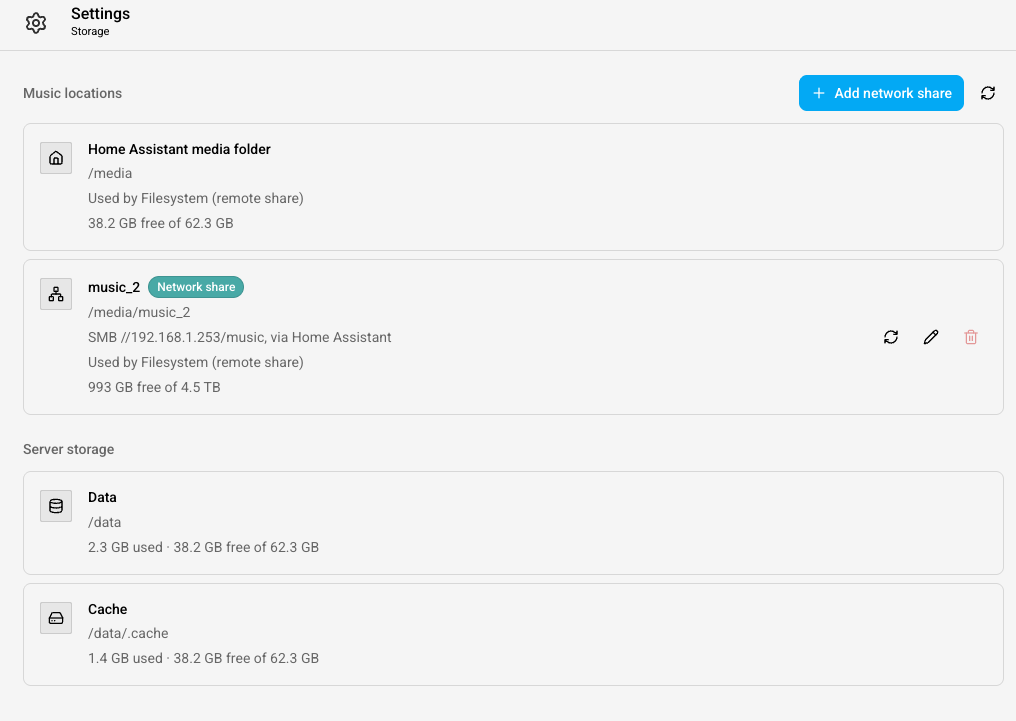
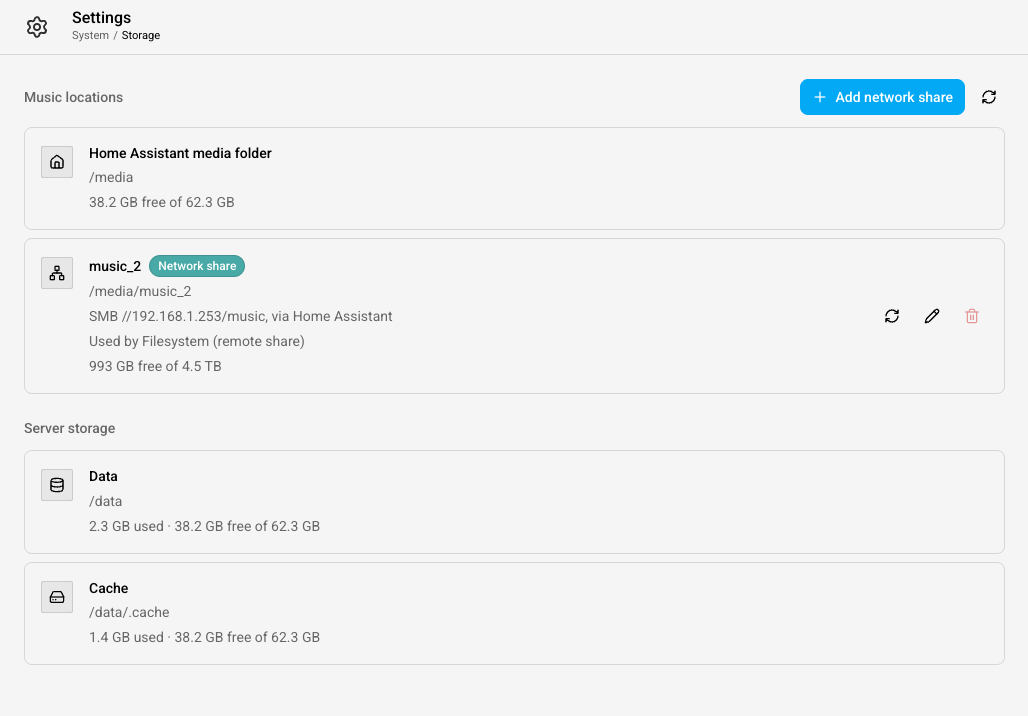
Place the Storage page under System and describe Use as music source

diff --git a/src/content/docs/settings/storage.md b/src/content/docs/settings/storage.md
@@ -7,7 +7,7 @@ description: The folders, drives and network shares your music sources can use
 
 A storage location is a folder, a drive or a network share that Music Assistant can read files from. When you add a [Local files](/music-providers/local-files/) source, you pick its folder from these locations.
 
-The **Storage** page in the settings lists the storage locations and lets you add network shares. Only administrators see this page.
+The **Storage** page lists the storage locations and lets you add network shares. You find it in the settings under **System**. Only administrators see this page.
 
 ![The Storage page with the Home Assistant media folder and a network share](/assets/screenshots/settings-storage.png)
 
@@ -26,6 +26,8 @@ Each location shows its name, its path, the kind of location it is, such as **Ne
 - <b>Unavailable.</b> Music Assistant cannot reach the location right now, for example because the NAS is switched off. The reason is shown below it. A Local files source on this location is unavailable too. It returns by itself once the location is reachable again, and nothing is removed from the library while it is away
 - <b>Read-only.</b> Music Assistant can read the files but not change them. Playlist files in this location cannot be created or edited. Playlists you create in Music Assistant itself are not affected
 
+A location that no music source uses offers **Use as music source**. It opens the setup of a [Local files](/music-providers/local-files/) source with the folder of that location filled in.
+
 ## Adding a network share
 
 Select **Add network share** and fill in the form:
@@ -38,7 +40,7 @@ Select **Add network share** and fill in the form:
 - <b>Read-only.</b> Music Assistant can read from the share but not change anything on it
 - <b>Protocol version.</b> Under **Show advanced settings**. Leave it on **Automatic** unless the share does not connect with that setting. On the Home Assistant App, only SMB 1.0 and 2.0 can be picked, and NFS has no version setting
 
-Select **Add**. The share joins the list of music locations, and you can pick it, or a folder inside it, for a Local files source.
+Select **Add**. The share joins the list of music locations, and you can pick it, or a folder inside it, for a Local files source. The message that confirms the new share offers **Use as music source** as the next step.
 
 If this installation of Music Assistant cannot connect a network share itself, the button is not there. In a container, the page shows **Add network shares on the host** instead. [Mount the share on the host](/installation/#with-docker) and map it into the container. It then shows up as a location of its own. Without a container, the page shows **Mount network shares on this server**. Mount the share on the computer. On Linux, it then shows up as a location of its own.
 
@@ -50,7 +52,7 @@ A network share that Music Assistant added has three buttons:
 - <b>Edit.</b> Changes the settings of the share. The password is not shown. Leave it empty to keep the current one
 - <b>Remove.</b> Disconnects the share. The files on it are not deleted
 
-When a location holds the folder of an enabled music source, it shows **Used by** with the name of that source, and it cannot be removed. Disable or remove that music source first.
+When a location holds the folder of an enabled music source, it shows **Used by** with the name of that source, and it cannot be removed. Disable or remove that music source first. The source is named on the location closest to its folder. A location around that one cannot be removed either.
 
 A location can also lie inside the folder of a music source. A source on `/media` reads every network share below it, for example. Such a location shows **Also read by** with the name of that source. It can be removed. The source then drops the items of that share from the library at its next sync, and Music Assistant tells you so before you confirm.
 
